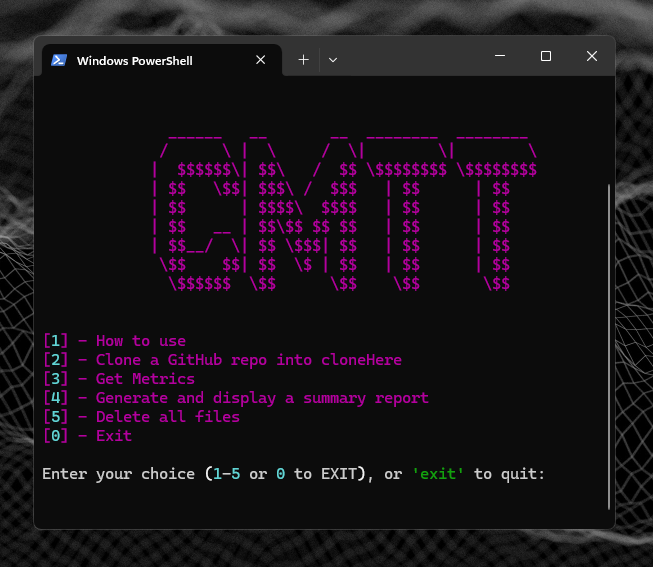
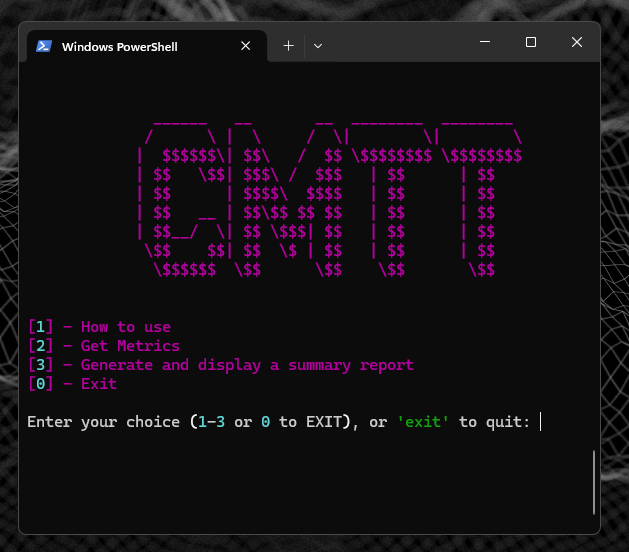
small fixes

diff --git a/cli.py b/cli.py
@@ -30,6 +30,7 @@ console = Console(theme=custom_theme)
 class FileEventHandler:
     def __init__(self, directory='cloneHere'):
         self.directory = directory
+        self.all_metrics = []
 
     def analyze_neighboring_files(self):
         if os.path.exists(self.directory):
@@ -40,84 +41,77 @@ class FileEventHandler:
             console.print("Directory 'cloneHere' does not exist.", style="error")
 
     def analyze_file(self, file_path):
-        console.clear()  # Clear the screen before displaying analysis results
         console.print(f"Analyzing file: [bold red]{file_path}[/bold red]")
-
         try:
             with open(file_path, 'r') as file:
                 code = file.read()
 
-            # Lines of Code (LOC) - using radon
+            # Metrics calculation
             loc = sum(1 for _ in code.split('\n') if _)
-
-            # Cyclomatic Complexity - using radon
             cc_results = complexity.cc_visit(code)
-
-            # Start a new coverage analysis session
             cov = Coverage()
             cov.start()
-
-            # Execute the file
             result = subprocess.run([sys.executable, '-m', 'coverage', 'run', '--parallel-mode', file_path], capture_output=True)
-
-            # Stop coverage and save data
             cov.stop()
             cov.save()
             cov.combine()
+            coverage_data = cov.report(file=sys.stdout)
 
-            # Print code coverage in orange
-            cov.report(file=sys.stdout)
+            # Defect density calculation (assuming defects are tracked and counted separately)
+            defects = 0  # Placeholder; replace or calculate as needed
+            defect_density = defects / loc if loc > 0 else 0
 
             if result.returncode != 0:
                 console.print(f"Error running file {file_path}: {result.stderr.decode('utf-8')}", style="error")
                 return
 
-            # Output results
-            console.print(f"Lines of Code (LOC): {loc}", style="success")
-            console.print("Cyclomatic Complexity:")
-            for item in cc_results:
-                console.print(f"Function: {item.name}, Complexity: {item.complexity}", style="success")
-
-            # Assuming defect density calculation happens here
-            defects = 0  # Placeholder for actual defect count
-            defect_density = defects / (loc if loc > 0 else 1)
-            console.print(f"Defect Density: {defect_density}", style="success")
-
-            # Store metrics for report generation
-            self.metrics = {
+            # Storing results
+            file_metrics = {
+                'file': file_path,
                 'Lines of Code': loc,
-                'Cyclomatic Complexity': [f"{item.name}: {item.complexity}" for item in cc_results],
-                'Defect Density': defect_density
+                'Cyclomatic Complexity': cc_results,
+                'Coverage Score': coverage_data,
+                'Defect Density': defect_density,
+                'Coverage Tips': 'Increase unit tests for better coverage.' if coverage_data < 75 else 'Good coverage!',
+                'Defect Tips': 'Focus on reducing defects per LOC.' if defect_density > 0.1 else 'Low defect density, good job!'
             }
-
+            self.all_metrics.append(file_metrics)
         except Exception as e:
             console.print(f"Error analyzing file: {e}", style="error")
 
-    def get_metrics(self):
-        return self.metrics if hasattr(self, 'metrics') else {}
+
+
+    def get_all_metrics(self):
+        return self.all_metrics
 
 def display_summary_report():
+    metrics = file_event_handler.get_all_metrics()
     directory = 'summaryReports'
     if not os.path.exists(directory):
         os.makedirs(directory)
     filename = datetime.datetime.now().strftime("%Y-%m-%d_%H-%M-%S_summary_report.txt")
     filepath = os.path.join(directory, filename)
-    metrics = file_event_handler.get_metrics()
+
     with open(filepath, 'w') as file:
-        file.write("Metrics Summary:\n")
-        for metric_name, values in metrics.items():
-            if isinstance(values, list):
-                file.write(f"{metric_name}:\n")
-                for value in values:
-                    file.write(f"    {value}\n")
-            else:
-                file.write(f"{metric_name}: {values}\n")
-        file.write("\nTips on Improving Metrics:\n")
-        file.write("1. Reduce complexity by simplifying function logic.\n")
-        file.write("2. Increase code coverage by adding more comprehensive tests.\n")
-        file.write("\nHow to Achieve the Best Scores:\n")
-        file.write("Focus on writing clean, readable, and well-documented code. Prioritize unit testing to ensure robustness.\n")
+        for metric in metrics:
+            file.write(f"File: {metric['file']}\n")
+            file.write(f"Lines of Code: {metric['Lines of Code']}\n")
+            file.write("Cyclomatic Complexity:\n")
+            for item in metric['Cyclomatic Complexity']:
+                file.write(f"  Function: {item.name}, Complexity: {item.complexity}\n")
+            file.write(f"Coverage Score: {metric['Coverage Score']:.2f}%\n")
+            file.write(f"Defect Density: {metric['Defect Density']:.2f}\n")
+            file.write(f"Suggestions based on Coverage: {metric['Coverage Tips']}\n")
+            file.write(f"Suggestions based on Defect Density: {metric['Defect Tips']}\n\n")
+
+        # General advice section
+        file.write("\nGeneral Tips on Improving Code Quality:\n")
+        file.write("1. Aim for higher test coverage to ensure more robust code.\n")
+        file.write("2. Refactor code to simplify complex functions and reduce cyclomatic complexity.\n")
+        file.write("3. Include more detailed inline comments and documentation for better maintainability.\n")
+
     console.print(f"Summary report generated and saved to {filepath}", style="success")
+
 
 def clear_screen():
     os.system('cls' if os.name == 'nt' else 'clear')

diff --git a/README.md b/README.md
@@ -1,5 +1,7 @@
 # CodeMetrics Terminal Tool (CMTT)
 
+![Alt text](/ASSET/MainMenu.png)
+
 The CodeMetrics Terminal Tool (CMTT) is a Python-based software metrics analysis tool designed to provide software developers and project managers with immediate insights into code quality directly from the terminal. 
 
 ## Objective
@@ -11,19 +13,22 @@ CMTT aims to offer quick assessments of software quality metrics such as Lines o
 - **Terminal-based:** Operates directly from the terminal for swift and easy access.
 - **Metric Collection:** Collects and analyzes essential software metrics including LOC, Cyclomatic Complexity, Code Coverage, and Defect Density.
 - **Expandability:** Designed with future integration of additional metrics and a Graphical User Interface (GUI) in mind.
-- **Neighboring File Analysis:** Monitors a designated folder for Python files, automatically analyzing any new files for metrics.
+- **Neighboring File Analysis:** Monitors a designated folder (`cloneHere`) for Python files, automatically analyzing any new files for metrics.
+- **Defect Tracking Integration:** Integrates with bug tracking systems like JIRA, Bugzilla, or GitHub Issues to fetch defect data for analyzed files, enhancing the defect density calculations.
+- **Summary Reporting:** Generates detailed summary reports in `summaryReports` folder, providing actionable insights and suggestions based on analyzed metrics.
 
 ## Getting Started
 
 1. Clone the repository to your local machine.
 2. Install the required dependencies with `pip install -r requirements.txt`.
-3. Execute `python main.py testFileName.py` to start monitoring the designated folder.
-4. Drop Python files into the monitored folder for automatic analysis.
+3. Execute `python main.py` to start monitoring the designated folder.
+4. Drop Python files into the monitored folder `cloneHere` for automatic analysis.
+5. Review the generated reports in the `summaryReports` directory for insights and improvements.
 
 ## Dependencies
 
-Ensure you have Python 3.x installed and then install project dependencies:
-pip install -r requirements.txt
+Ensure you have Python 3.x installed and then install project dependencies:pip install -r requirements.txt
+
 
 ## Contributing
 
